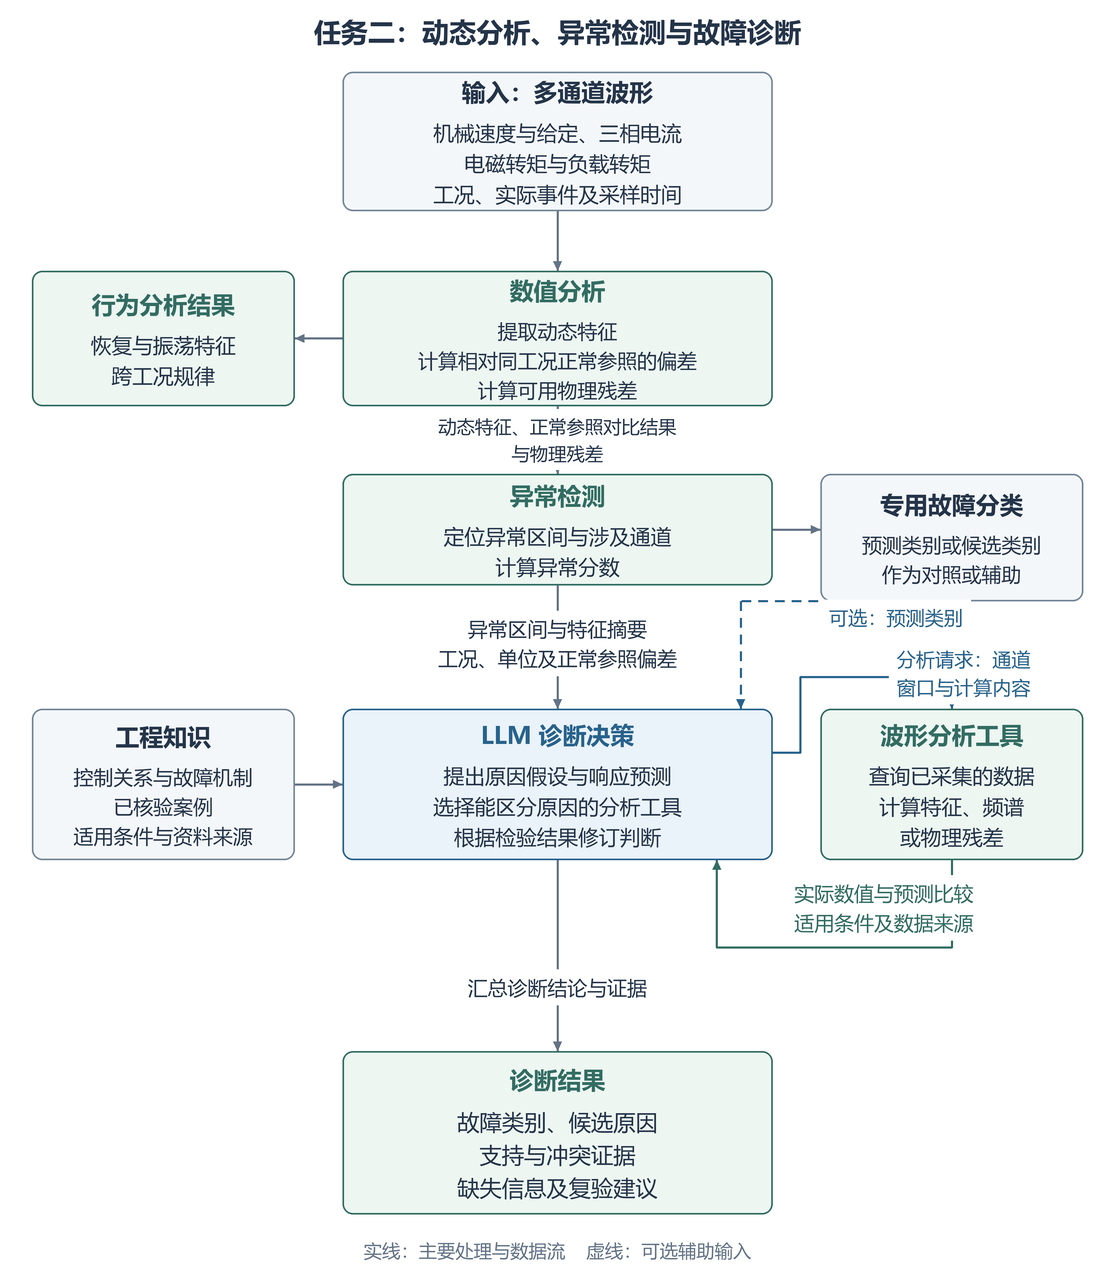
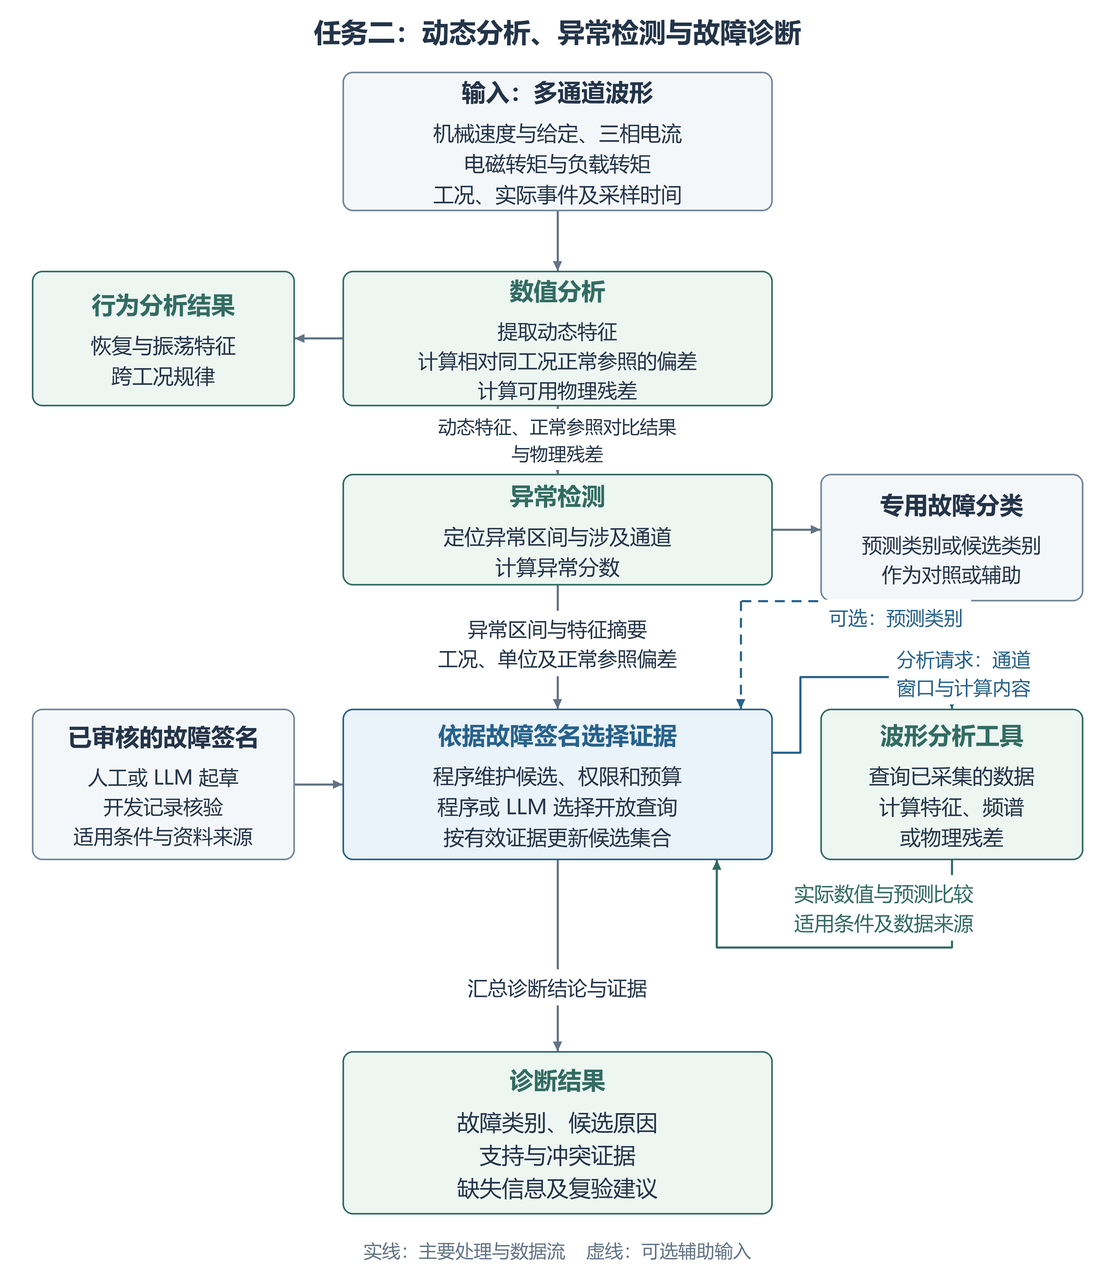
docs(research): 细化 HIL 失效搜索、故障诊断与工程知识建模
- 扩展调速与负载组合、连续三事件和反馈偏置场景，明确反例复验、同预算随机基线与难度分档方法
- 采用经审核的故障签名矩阵，由程序管理候选、查询权限和停止条件，分别评价 LLM 在建模、选证和解释冲突中的贡献
- 明确如何从需求、控制逻辑和历史案例提取可核验的约束与证据，同步更新讨论稿、执行计划和诊断流程图

Changed region(s): [[0.3743, 0.5625, 0.6238, 0.6875], [0.0624, 0.5625, 0.2495, 0.6562]]

diff --git a/docs/research/2026-11-11-hil-ai-selection/figures/build_figures.py b/docs/research/2026-11-11-hil-ai-selection/figures/build_figures.py
@@ -136,8 +136,8 @@ def diagnosis():
     f.box(40,340,330,170,'行为分析结果',['恢复与振荡特征','跨工况规律'],'data',26)
     f.box(430,595,540,140,'异常检测',['定位异常区间与涉及通道','计算异常分数'],'data',26)
     f.box(1030,595,330,160,'专用故障分类',['预测类别或候选类别','作为对照或辅助'],size=25)
-    f.box(40,890,330,190,'工程知识',['控制关系与故障机制','已核验案例','适用条件与资料来源'],size=25)
-    f.box(430,890,540,190,'LLM 诊断决策',['提出原因假设与响应预测','选择能区分原因的分析工具','根据检验结果修订判断'],'llm',26)
+    f.box(40,890,330,190,'已审核的故障签名',['人工或 LLM 起草','开发记录核验','适用条件与资料来源'],size=25)
+    f.box(430,890,540,190,'依据故障签名选择证据',['程序维护候选、权限和预算','程序或 LLM 选择开放查询','按有效证据更新候选集合'],'llm',26)
     f.box(1030,890,330,190,'波形分析工具',['查询已采集的数据','计算特征、频谱','或物理残差'],'data',26)
     f.box(430,1320,540,205,'诊断结果',['故障类别、候选原因','支持与冲突证据','缺失信息及复验建议'],'data',28)
     f.text(700,552,['动态特征、正常参照对比结果','与物理残差'],23,backing=True)
@@ -158,17 +158,17 @@ if __name__=='__main__':
     for i,t in enumerate(thumbs): sheet.paste(t,(10+i*580+(560-t.width)//2,20))
     sheet.save(OUT/'preview.png')
     source=OUT.parent/'discussion-brief.md'
-    meta={'source':'../discussion-brief.md','sha256':hashlib.sha256(source.read_bytes()).hexdigest(),'date':'2026-11-23','raster_scale':S,'dpi':600,'figures':[]}
+    meta={'source':'../discussion-brief.md','sha256':hashlib.sha256(source.read_bytes()).hexdigest(),'date':'2026-11-25','raster_scale':S,'dpi':600,'figures':[]}
     for stem,im in zip(('01-overall-workflow','02-test-search-feedback','03-analysis-and-diagnosis'),imgs):
         meta['figures'].append({'name':stem,'pixels':list(im.size)})
     (OUT/'manifest.json').write_text(json.dumps(meta,ensure_ascii=False,indent=2),encoding='utf-8')
     (OUT/'README.md').write_text('''# 讨论稿流程图：Word 插图
 
-来源：2026-11-23 修订的 discussion-brief.md 及相邻正文。总流程图展示工程审核、条目检索和执行前校验。
+来源：2026-11-25 修订的 discussion-brief.md 及相邻正文。总流程图展示工程审核、条目检索和执行前校验。
 
 1. 01-overall-workflow：总体流程与任务衔接。
 2. 02-test-search-feedback：任务一的测试生成与真实反馈循环。
-3. 03-analysis-and-diagnosis：任务二的数据分析、故障识别及工具辅助诊断。
+3. 03-analysis-and-diagnosis：任务二的数据分析、故障签名和查询决策。
 
 术语与正文一致：反馈包括性能指标、判定结果及响应特征；评分计算指标与限值的差值，恢复时间示例使用正文定义的余量。图中的“闭环”专指电机控制闭环。
 

diff --git a/docs/research/2026-11-11-hil-ai-selection/discussion-brief.md b/docs/research/2026-11-11-hil-ai-selection/discussion-brief.md
@@ -1,6 +1,6 @@
 # 面向电机 HIL 的智能测试生成与数据分析
 
-讨论稿 · 编制于 2026-11-11，修订于 2026-11-23。供课题组与工程协作方讨论大语言模型（LLM）在电机 HIL 中承担哪些决策、需要哪些知识及如何验收。[完整方案第 1.5—1.6 节](technical-selection.md#15-知识增强的工程推理)给出知识来源、表示、审核和文献依据，实现与复现见[参考附录](implementation-reference.md)。
+讨论稿 · 编制于 2026-11-11，修订于 2026-11-25。供课题组与工程协作方讨论大语言模型（LLM）在电机 HIL 中承担哪些决策、需要哪些知识及如何验收。[完整方案第 1.5—1.6 节](technical-selection.md#15-知识增强的工程推理)给出知识来源、表示、审核和文献依据，实现与复现见[参考附录](implementation-reference.md)。
 
 ## 1. 研究目标与核心任务
 
@@ -11,9 +11,9 @@
 | 核心任务 | 典型困难 | LLM 的具体作用 |
 |---|---|---|
 | 任务一：智能测试生成与失效搜索 | 调速和加负载分别通过，特定幅值、间隔或次序却可能导致恢复超时或振荡 | 结合需求、物理含义和真实反馈，提出测试假设并调整下一工况 |
-| 任务二：数据分析与故障诊断 | 相似速度跌落可能来自正常负载、反馈异常或执行异常 | 比较候选原因，选择有区分力的证据，随工具结果更新判断 |
+| 任务二：数据分析与故障诊断 | 相似速度跌落可能来自正常负载、反馈异常或执行异常 | 起草可检验的故障签名，选择有区分力的证据，解释尚未解决的冲突 |
 
-在测试生成中，LLM 根据需求与历史响应选择下一轮工况，工具负责校验、执行和评分；在故障诊断中，信号处理与物理分析提供观测证据，LLM 据此比较候选原因，并选择进一步的分析工具。通过与传统搜索和诊断策略对照，评价 LLM 是否提高失效发现与原因区分的效果，以及能否降低人工投入和总成本。两项任务的关系如下图所示。
+在测试生成中，LLM 根据需求与历史响应选择下一轮工况，工具负责校验、执行和评分；在故障诊断中，信号处理与物理分析提供观测证据，程序依据已审核的签名核对候选，LLM 可辅助建模或选择下一项开放查询。通过与传统搜索和诊断策略对照，评价 LLM 是否提高失效发现与原因区分的效果，以及能否降低人工投入和总成本。两项任务的关系如下图所示。
 
 这里的“失效”指违反已定义的功能或性能要求；“反例”指使该要求不成立的测试工况及其运行结果。“电机控制闭环”指控制器、电机与反馈构成的控制关系；LLM 参与的测试反馈和诊断更新分别构成迭代循环。
 
@@ -76,19 +76,17 @@ flowchart LR
 
 评价重点是在相同预算下发现更多失效，或以更少测试和总成本发现失效。预算内未发现反例时，报告工况组合、事件次序与预先划分的参数区域覆盖，以及本轮最小余量。覆盖比例按已完成有效测试的不同组合、次序或区域数量计算，重复测试不增加相应覆盖数，分母和划分方式在比较前固定；获得相邻的满足与违反样本后，再进一步刻画局部失效边界。
 
+11 月 22 日六种策略各执行一轮、每轮 6 次，全部满足 100 ms 的恢复要求，最小余量为 60 ms。下一批从负载幅值与调速次序、瞬态尚未结束时的三事件序列、已核验的反馈偏置三类场景起步，正常运行与故障容忍分开比较。每个场景先在许可域内粗扫并复验反例，再用固定预算和独立随机种子标定难度。尚无可复现反例时报告覆盖和余量，分档标准、冻结条件及交付要求见[主稿 §2.3](technical-selection.md#23-场景预试与原型验证)。
+
 ## 3. 任务二：数据分析与故障诊断
 
 任务二以动态行为分析和异常检测为基础，当前重点研究 LLM 在故障原因区分与自适应证据选择中的作用。基于已有特征的跨工况比较和规律总结同步开展，LLM 辅助的新特征与规律发现作为后续扩展。
 
 当前数据来自 100 kSa/s、0.8 s 的七通道记录，包括机械速度与给定（rad/s）、Ia/Ib/Ic（A）、电磁转矩与负载（N·m），以及采样时间、实际事件和配置。分析工具从完整波形中提取动态特征、相对同工况正常参照的偏差及可用物理残差，形成行为分析结果和异常事件，再将相关摘要交给 LLM 比较候选原因。
 
-**主路线：让 LLM 把候选原因写成可检验的响应预测，由工具检查预测与观测是否相符，再根据证据修订判断和下一步分析。**
+**先用已审核的故障签名比较原因，再测量 LLM 在建模和选证上的收益。** 故障签名记录各候选机制对同一观测的不同预测。程序维护候选集合、已用证据、测点权限和预算。LLM 可从工程资料提出签名，或在本次开放动作中选查询。两项能力分别对照人工建模与程序选证。BoxLM 提供以独立计算检验预测的思路，S2S-FDD 提供用健康参照、信号变化和分支查询组织证据的方法。[BoxLM](https://proceedings.mlr.press/v235/li24v.html) · [S2S-FDD](https://arxiv.org/html/2603.08048v1)
 
-[BoxLM（ICML 2024）](https://proceedings.mlr.press/v235/li24v.html)的核心是**把 LLM 提出的解释变成能用数据检验的模型，再依据检验结果改进解释**。原方法让 LLM 生成概率程序，由数值工具拟合、评价，并把预测偏差反馈给 LLM。本方案先在工程确认的候选机制内采用这一假设检验方式：明确每种原因预期出现什么响应、什么观测会与它冲突，再调用已有分析工具检查。
-
-[S2S-FDD](https://arxiv.org/html/2603.08048v1)用于组织“信号发生了什么变化”，将趋势、正常偏差和测点含义交给 LLM；[TraceBench](https://arxiv.org/html/2608.27182v1)用于评测设计，帮助检查给定观测是否足以区分原因，以及背景知识和工具条件怎样影响结果。
-
-具体实施时，初始摘要保留工况、异常区间、测点含义、数值、单位及正常参照偏差。LLM 在读取补充结果前给出候选原因的响应预测，并选择有助于区分它们的通道、窗口和工具。工具返回数值及比较结果后，LLM 更新支持与冲突证据，决定继续查询或输出诊断。研究重点是显式预测与反馈修订能否改善原因区分，并减少无效查询和人工排查投入。整体流程如下。
+软件比较中，固定规则、自适应规则和直接 LLM 均为 8/8，显式检验 LLM 为 2/8。六次流程错误中，四次重复追查已排除的原因，两次请求未开放的测点。首批以正常加载、速度反馈偏置和 q 轴电流反馈偏置建立小矩阵。直接残差须有独立探针，并在同工况正常采集中标定。已冻结的程序规则控制候选更新和停止，遇到冲突或缺测保留可追查的证据与候选。[11 月 22 日诊断记录](../../validation-history.md#软件诊断与-brno-参照选择)
 
 ```mermaid
 flowchart TD
@@ -96,7 +94,7 @@ flowchart TD
     F --> W["行为分析结果<br/>恢复与振荡特征、跨工况规律"]
     F --> D["异常检测<br/>输出异常区间、涉及通道与异常分数"]
     D --> C["专用分类器：识别故障类别<br/>作为对照或提供辅助预测"]
-    D -->|异常区间与特征摘要、工况及正常参照偏差| L["LLM：提出原因假设与响应预测<br/>选择能区分原因的分析工具<br/>根据检验结果修订判断"]
+    D -->|异常区间与特征摘要、工况及正常参照偏差| L["按审核签名比较剩余候选<br/>程序维护状态，程序或 LLM 选择开放查询"]
     C -.->|可选输入：预测类别| L
     K["工程知识<br/>控制关系、故障机制与案例"] --> L
     L -->|分析请求：通道、时间窗口与计算内容| T["工具：查询已采集数据<br/>计算特征、频谱或物理残差"]
@@ -106,7 +104,7 @@ flowchart TD
 
 在这一流程中，异常检测以数值和专用时序方法为主，故障识别比较专用分类器与 LLM 的类别判断，原因分析重点比较候选机制及其区分证据。专用分类器预测作为 LLM 的辅助输入时，单独评价融合增益；直接利用 LLM 检测波形的路线根据后续结果安排。
 
-例如，针对速度跌落，LLM 提出“正常负载响应”假设，并预测跌落应发生在实际负载变化之后，幅值和恢复应处于同工况正常范围。工具检查这些预测；若仍有超出正常范围的偏差，LLM 继续检查反馈偏置或执行通道异常，依据实际结构提出独立速度与反馈差异、电流或执行状态的预测。正常范围由开发数据标定，缺少对应观测时保留未决候选；单项预测相符仍需检查其他原因能否产生相同现象。
+以速度跌落为例，单查跌落幅值很难区分三个候选。给定其他条件相同，正常加载时应看到实际负载变化，速度及电流反馈残差仍在各自正常带内。速度反馈单独偏置预期先在速度反馈路径上出现持续残差。程序优先选择每单位成本可区分候选对数最多的开放查询；观测符合某一签名后，还需检查其他相容解释。
 
 补充查询面向已采集且对该任务开放的测点。软件闭环已核验速度和 q 轴电流反馈偏置；隐藏测点时，若正常负载和反馈偏置仍与观测相容，保留候选并指出区分它们所需的观测。向实体迁移时重新确认独立速度及保护状态可否读取。[软件留出与缺测结果](../../validation-history.md#软件诊断与-brno-参照选择)
 
@@ -121,6 +119,7 @@ flowchart TD
 | 测试工况选择 | 用工程启发式或自适应数值策略替换 LLM，保持执行器、评分和预算一致 | 失效发现、工况组合/事件次序/参数区域覆盖及完整成本 |
 | 诊断证据选择 | 用相同知识和工具的固定、自适应诊断策略替换 LLM | 原因区分、有效查询、判断更新及排查成本 |
 | 假设检验与反馈修订 | 比较同一 LLM 直接诊断与先提出响应预测、再按工具结果修订；匹配知识、初始观测及预算 | 预测是否可检验、冲突后是否正确更新、原因区分及不当确定结论 |
+| 诊断模型构建 | 用同一开发资料，比较人工建立签名和 LLM 起草后经独立审核的签名，固定运行时选证程序 | 留出采集的预测错误、可区分性，以及建模、复核与返工总人时 |
 | 知识和反馈 | 分别减少工程知识、变量语义或历史响应，再比较结果 | 收益来自哪些信息，LLM 是否有效使用它们 |
 
 对同一问题比较三种输入：只给任务说明、自动检索、人工给定适用条款。先标注必需条款，再改一个条件，如末事件次序、单位或测点可见性，看模型能否在动作字段中正确应用。各组共用执行校验器和评分器，分别统计首次提案及筛选后结果。Brno 实测参照选择由 5/8 提升到 8/8 时，每道有解题经程序筛选后只有一个候选，改进归于规则。正式比较把整次运行及其派生窗口、结案报告一并留出。[参照动作复核](../../validation-history.md#软件诊断与-brno-参照选择)
@@ -173,7 +172,7 @@ flowchart TD
 | 任务一：初步对比实验 | 基本搜索及场景预试后，比较混合策略、信息作用并作局部复验 | 5—9 人日；任务一合计 **10—17** |
 | 任务二：特征与检测 | 现有正常波形支持特征、正常参照及检测工具联调 | 4—7 人日 |
 | 任务二：首个故障 | 确认可修改的注入路径和观测后，做故障及正常对照 | 3—5 人日，条件性估计 |
-| 任务二：知识与假设检验诊断 | 工程知识和工具就绪后，接原因预测、工具检验和反馈修订 | 6—10 人日 |
+| 任务二：故障签名与证据检验 | 工程知识和工具就绪后，核验签名，由程序管理候选与停止 | 6—10 人日 |
 | 任务二：不同机制产生相似症状的数据 | 首个故障后补机制和区分观测，核验可辨识性 | 4—7 人日，条件性估计 |
 | 任务二：初步对比实验 | 不同机制产生相似症状的数据就绪后，建立自适应对照并作分层/完整流程初比 | 6—10 人日；任务二合计 **23—39** |
 | 多款 LLM 初筛增量 | 共用审核样例、LLM 适配、能力/负载测量与错误复核 | 5—13 人日 |

diff --git a/docs/research/2026-11-11-hil-ai-selection/execution-plan.md b/docs/research/2026-11-11-hil-ai-selection/execution-plan.md
@@ -19,10 +19,10 @@
 | 样例来源与生成机制 | 数据、模型与实验人员 | 可取得的原始记录、工程资料和可修改模型 | 纳入相关数据/模型工作包，新增机制与接口另估 | 原始来源、工况/机制覆盖、数据质量、派生关系及按运行划分 | 已核查五项公开来源，接入四项来源的原始数据；优先推进动态实测映射与机理生成，见[样例机制](../../pmsm-case-generation.md) |
 | 首轮问题、评分、接口与首个模型接入 | 本轮 Codex 实现；工程人员核对需求 | 可用模型、软件案例与固定判据 | 共用4—6人日，含记录采样 | 配置可校验，调用与真实结果可关联 | 首批已跑通，按实例继续校准 |
 | 搜索原型 | 本轮 Codex/搜索开发 | 首轮接口与一个模型 | 按完整方案任务一工作包 | 连续运行，模型根据先前实际反馈提出后续测试；错误与成本完整保存 | 首批实例完成，收益待比较 |
-| 场景预试与基线 | 实验/搜索人员 | 明确允许空间、评分和预算 | 与搜索原型交替校准 | 同评分器的一项基线、场景难度与选取依据 | 减速加载场景已完成同预算的粗扫加密和随机预试；已测工况均满足恢复要求，另建独立任务检验选点与失效发现 |
+| 场景预试与基线 | 实验/搜索人员 | 明确允许空间、评分和预算 | 与搜索原型交替校准 | 同评分器的一项基线、场景难度与选取依据 | 原减速加载场景 36 次均满足恢复要求。下一批扩大已核实的负载与速度组合，加入连续三事件，并单列反馈偏置容忍问题。逐场景冻结判据、复验反例并以同预算独立随机搜索标定难度 |
 | 特征、正常参照与检测 | 数据分析人员；本轮先建立索引 | 可复核的正常软件运行 | 4—7人日 | 元数据、工况分组、可查询特征与正常复杂响应 | 已有历史索引及 Brno 两负载、三种健康/故障条件的匹配窗口；检测评价与独立实测批次待补 |
 | 首个故障及观测核验 | 模型/执行人员；本轮核查与实现 | 确认实际控制路径、模型可修改 | 3—5人日 | 注入作用于闭环，保留独立观测、真值和正常对照 | 速度与 q 轴电流偏置已在同一软件模型、同一套测点上核验，另有零偏置与正常负载事件对照 |
-| 诊断查询与更新原型 | LLM/分析人员 | 首个故障、工具、工程条目 | 6—10人日 | 先记录响应预测，工具检验后更新候选，真值不进入模型输入 | 首批真实查询更新与同权限规则参照完成；解释一致性仍需修正与独立检查 |
+| 诊断查询与更新原型 | LLM/分析人员 | 首个故障、工具、工程条目 | 6—10人日 | 先记录响应预测，工具检验后更新候选，真值不进入模型输入 | 已有四种策略的软件对照。以正常加载和两种反馈偏置建立签名及工具映射，程序维护候选、合法动作与终止；用原六道流程错误和缺测题作开发回放，再以新采集检验 |
 | 可区分机制及比较 | 模型、分析和策略人员 | 首个原型可复现 | 数据4—7、初比6—10人日 | 相似症状、区分证据及不可辨识样例，同权限对照与独立运行 | 已完成 KAIST 整机留出及标定复算，补充对照了独立发电机的端电压证据。下一阶段在新 PMSM 实测上验收分型证据 |
 | 分任务多模型初筛 | LLM/实验人员 | 各自有代表性的审核样例 | 追加5—13人日，共用计一次 | 能力、完整效果、调用负载及失败记录 | 单模型调用与负载记录已取得；连续搜索、独立复查和诊断中的能力表现需分别检查，多模型待样例完善 |
 | 样机接入确认 | 板卡/固件、HIL与现场负责人待落实 | 对应资料与设备 | 外部等待与现场投入另计 | 已确认接口和电机参数、正常闭环及停止恢复记录 | 已有合同，工程确认与责任人待落实 |
@@ -31,7 +31,8 @@
 
 知识增强实验先复用减速加载与同症速度跌落两组任务。测试和控制人员核对规约、单位和适用版本，模型人员核对实际事件与可用测点，研究侧形成带出处的条款表、机理关系与可执行边界检查。独立复核人员封存留出问题、可接受条款和预期动作。三类输入为仅给任务说明、自动取回条款、直接给定正确条款；各组共用校验器。交付逐题检索与首次动作、工具拦截或修订、最终评分和人工工时，按错误所在环节决定扩展检索、补测点或调整模型。[完整比较设计](technical-selection.md#42-数据划分与公平比较)
 
-- 搜索沿用同一恢复评分；找到需求违反样本后，进一步取得邻近满足/违反点和复验才讨论局部边界。
+- 知识建模交付需求与操作约束、路径与签名、经审决策案例各一份可引用实例。用同一执行器分别替换签名作者与查询策略，记录审核、返工和运行成本。
+- 同预算随机基线按独立轮次报告命中数、总轮数和区间。近边界点复跑与正式搜索的独立重复分别计数。搜索沿用同一恢复评分；找到需求违反样本后，进一步取得邻近满足/违反点和复验才讨论局部边界。
 - 首批少量连续运行验证流程与反馈使用，保留与简单基线的开发性对照；正式方法收益依赖后续独立重复。
 - 正常参照按模型、参数、工况与运行阶段组织；确定性复跑用于复现核对。数据划分以完整运行或配置族为单位。
 - 故障注入在模型内实际反馈/执行路径生效，保留原始波形；正常数据可先联调工具。

diff --git a/docs/research/2026-11-11-hil-ai-selection/figures/README.md b/docs/research/2026-11-11-hil-ai-selection/figures/README.md
@@ -1,10 +1,10 @@
 # 讨论稿流程图：Word 插图
 
-来源：2026-11-23 修订的 discussion-brief.md 及相邻正文。总流程图展示工程审核、条目检索和执行前校验。
+来源：2026-11-25 修订的 discussion-brief.md 及相邻正文。总流程图展示工程审核、条目检索和执行前校验。
 
 1. 01-overall-workflow：总体流程与任务衔接。
 2. 02-test-search-feedback：任务一的测试生成与真实反馈循环。
-3. 03-analysis-and-diagnosis：任务二的数据分析、故障识别及工具辅助诊断。
+3. 03-analysis-and-diagnosis：任务二的数据分析、故障签名和查询决策。
 
 术语与正文一致：反馈包括性能指标、判定结果及响应特征；评分计算指标与限值的差值，恢复时间示例使用正文定义的余量。图中的“闭环”专指电机控制闭环。
 
